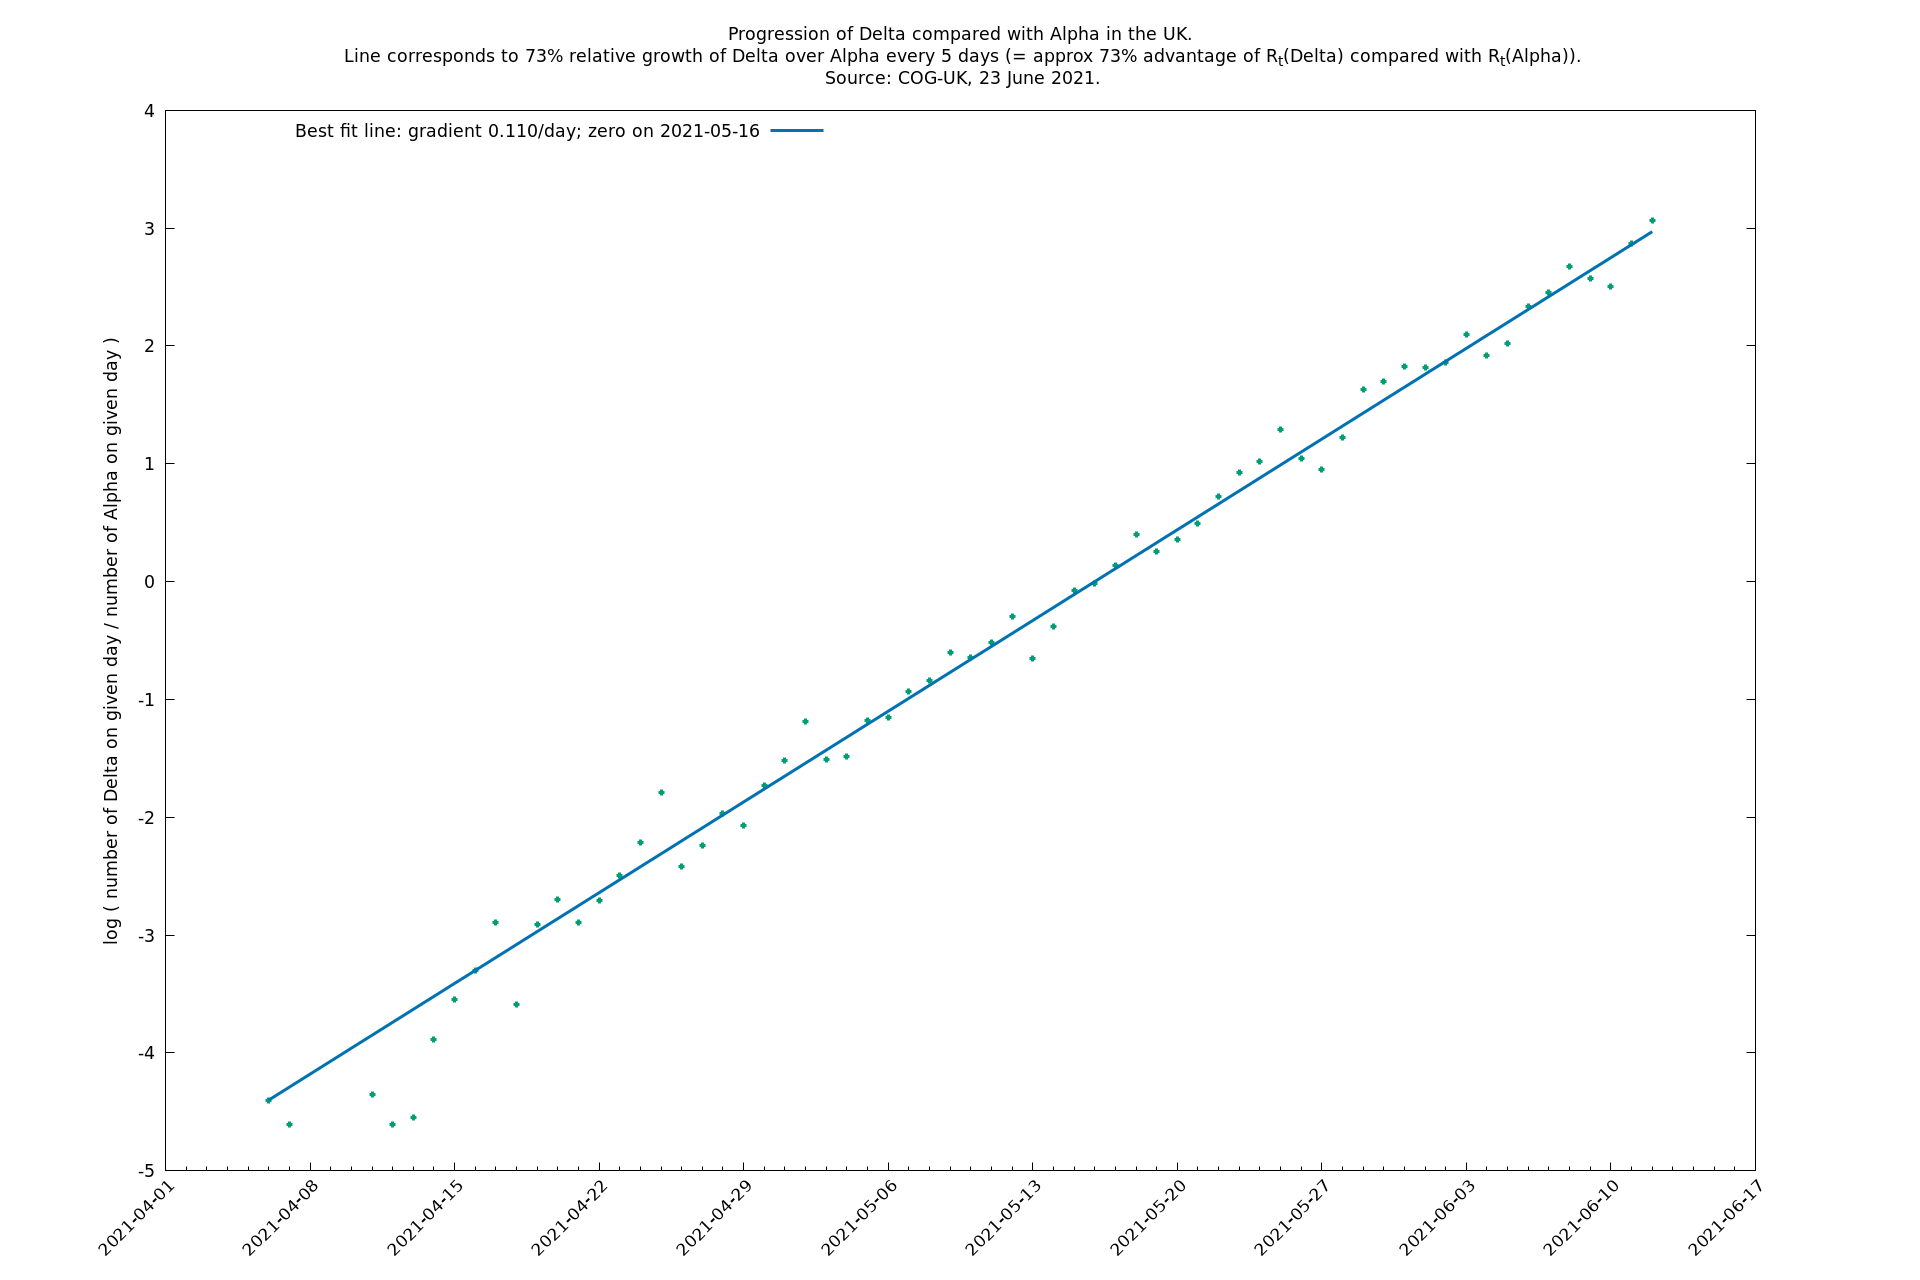
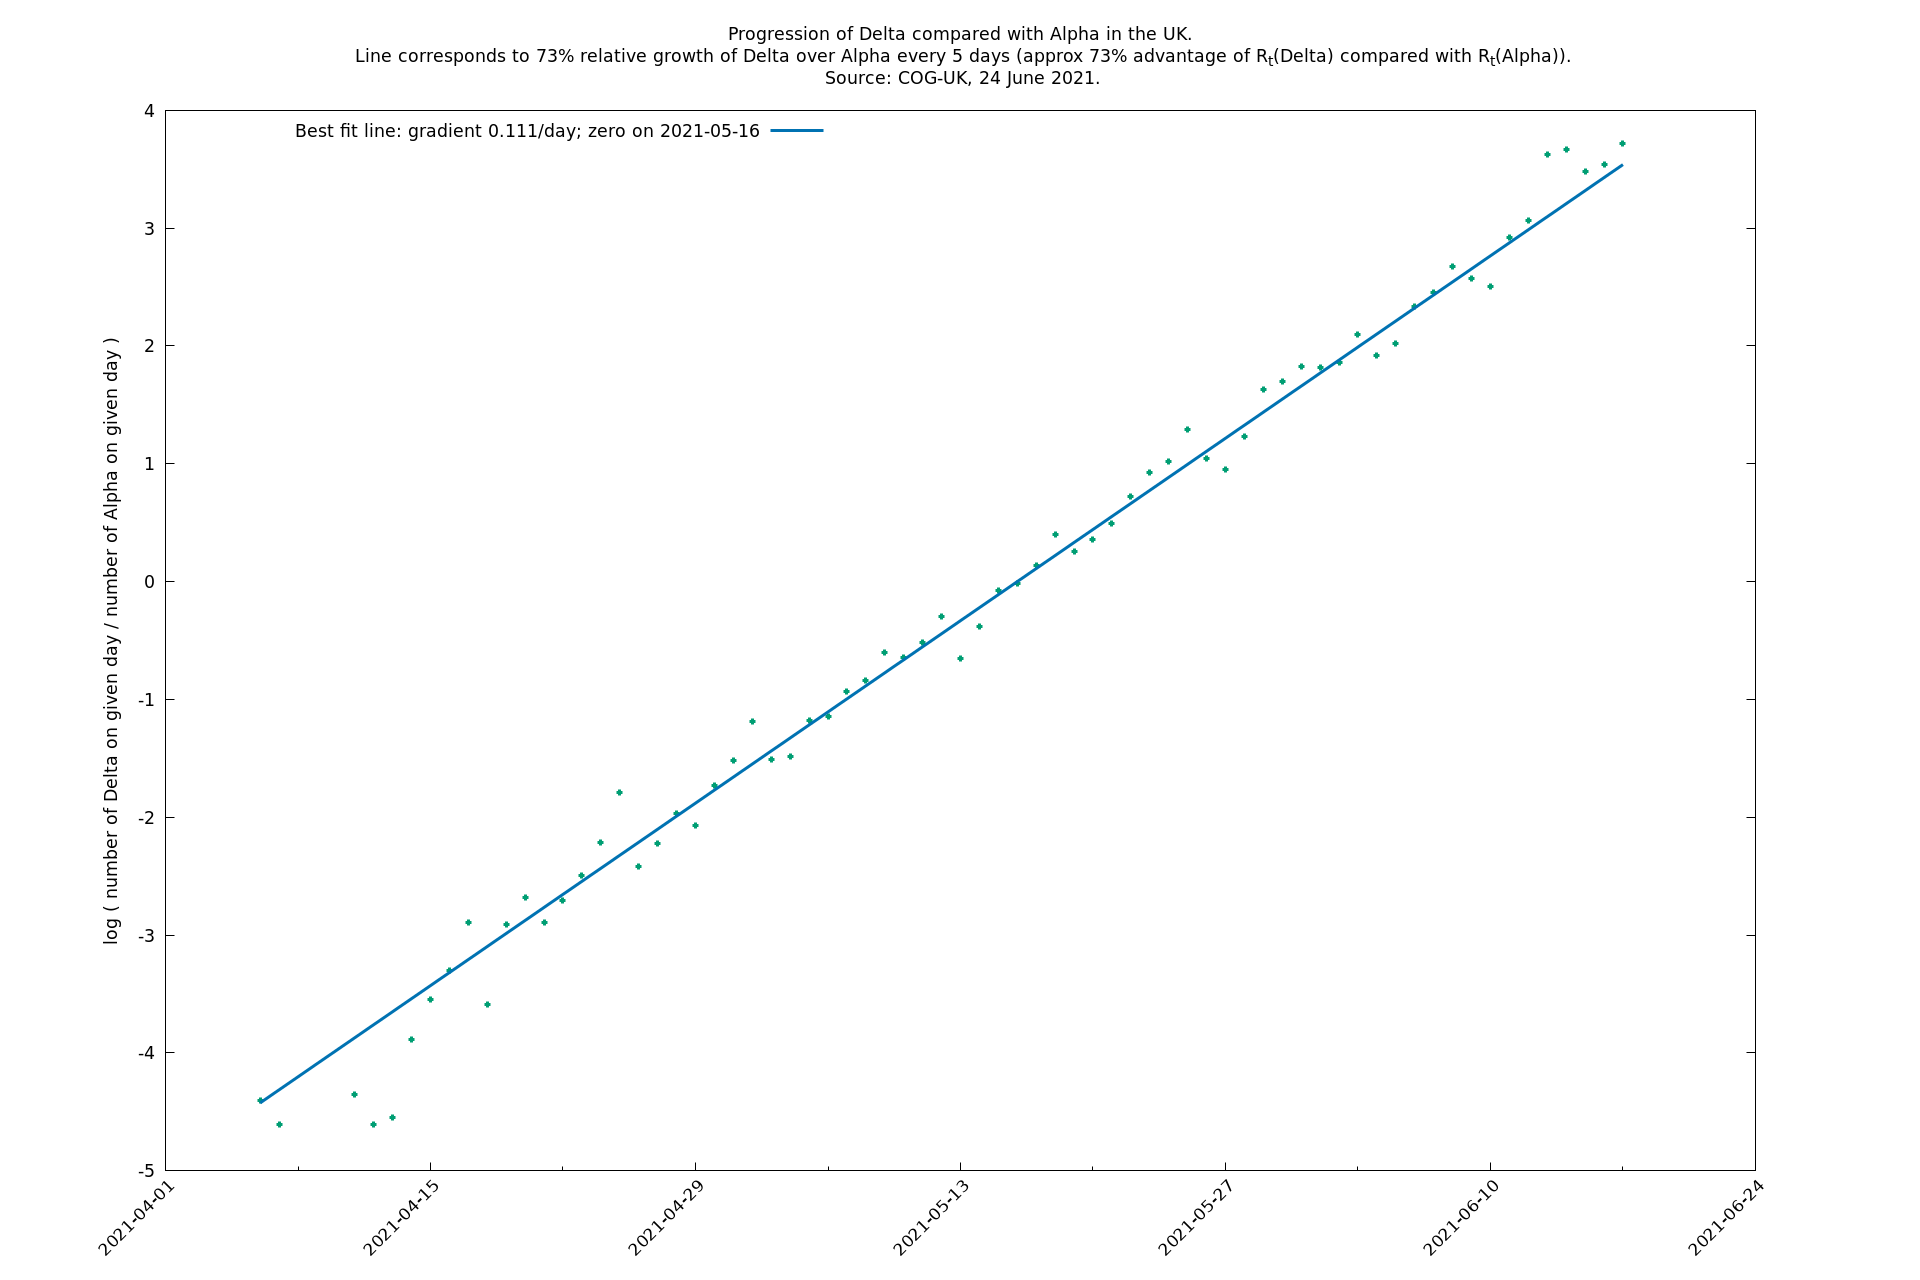
Minor updates

diff --git a/VOCgrowth/growthpost.2021-06-24/bestfit.py b/VOCgrowth/growthpost.2021-06-24/bestfit.py
@@ -25,5 +25,5 @@ Y=np.log(D/A)
 m=np.array([[sum(W), sum(W*X)], [sum(W*X), sum(W*X*X)]])
 r=np.array([sum(W*Y),sum(W*X*Y)])
 c=np.linalg.solve(m,r)
-print("Continuous growth rate = %.3f/day"%(c[1]))
+print("Continuous growth rate = %.4f/day"%(c[1]))
 print("Crossover on",daytodate(datetoday(dt[0])+int(-c[0]/c[1]+.5)))
